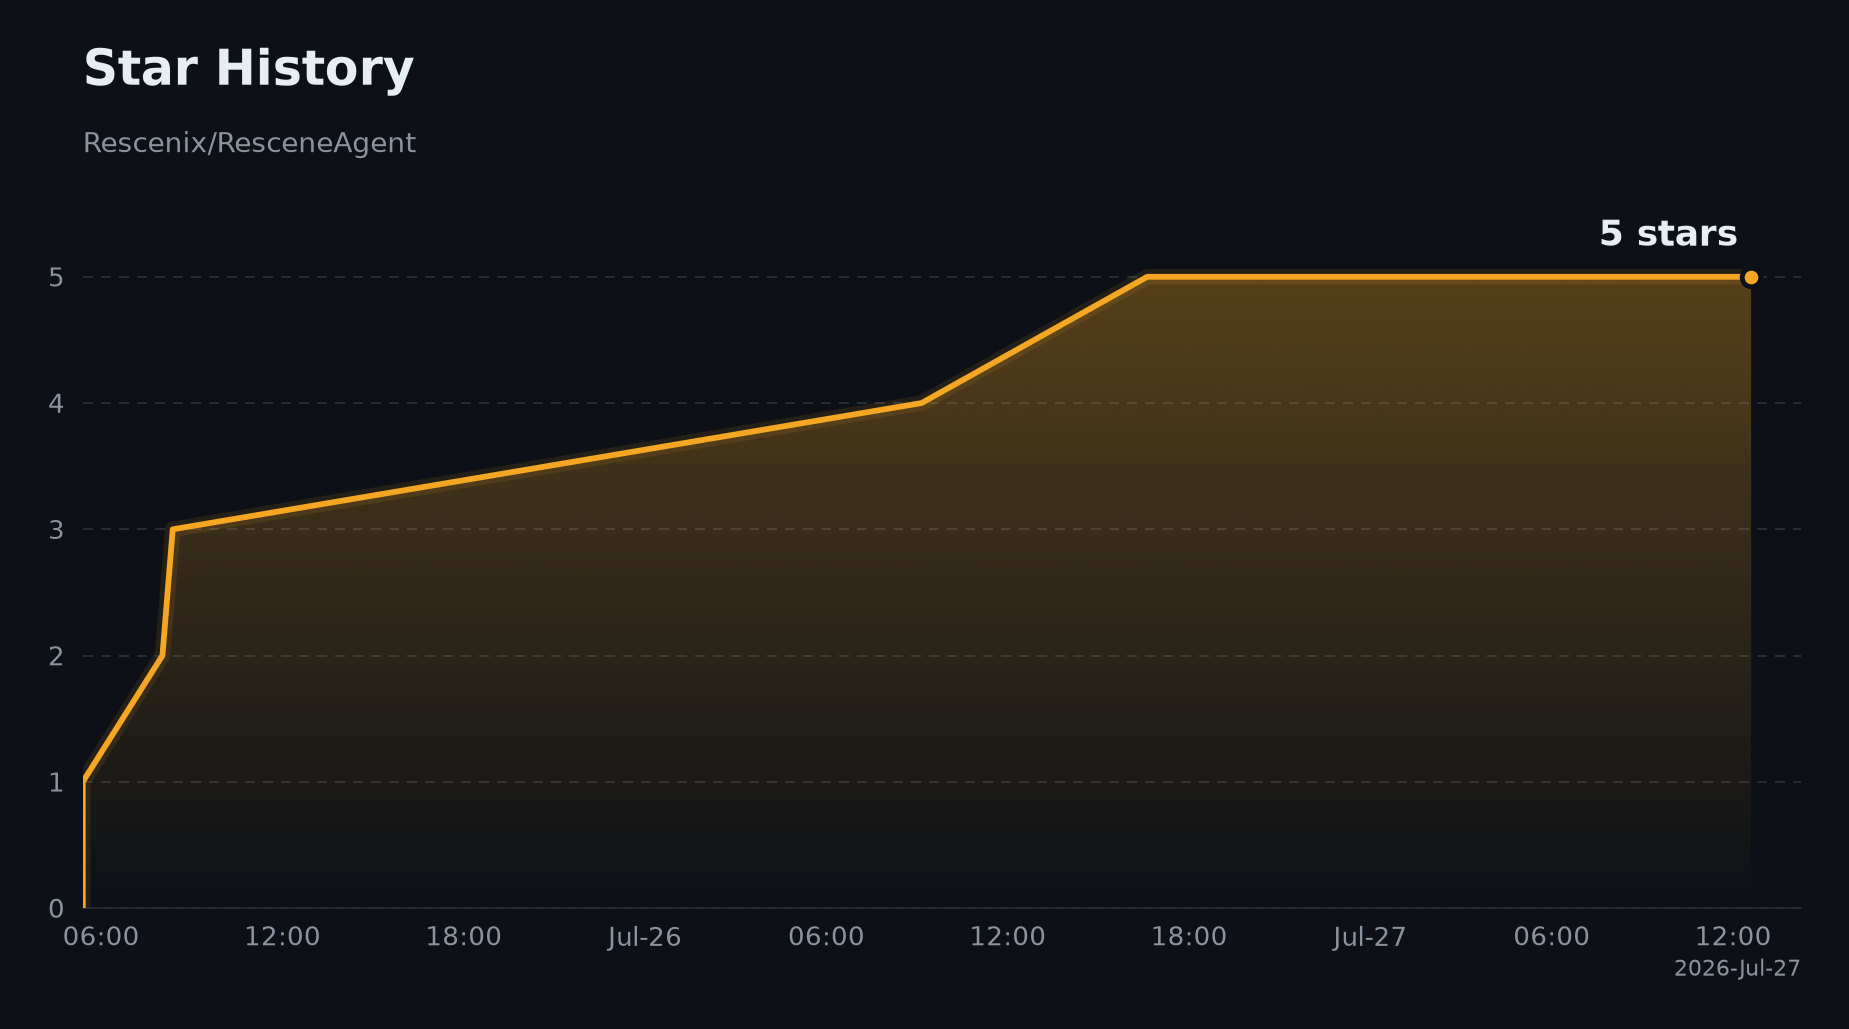
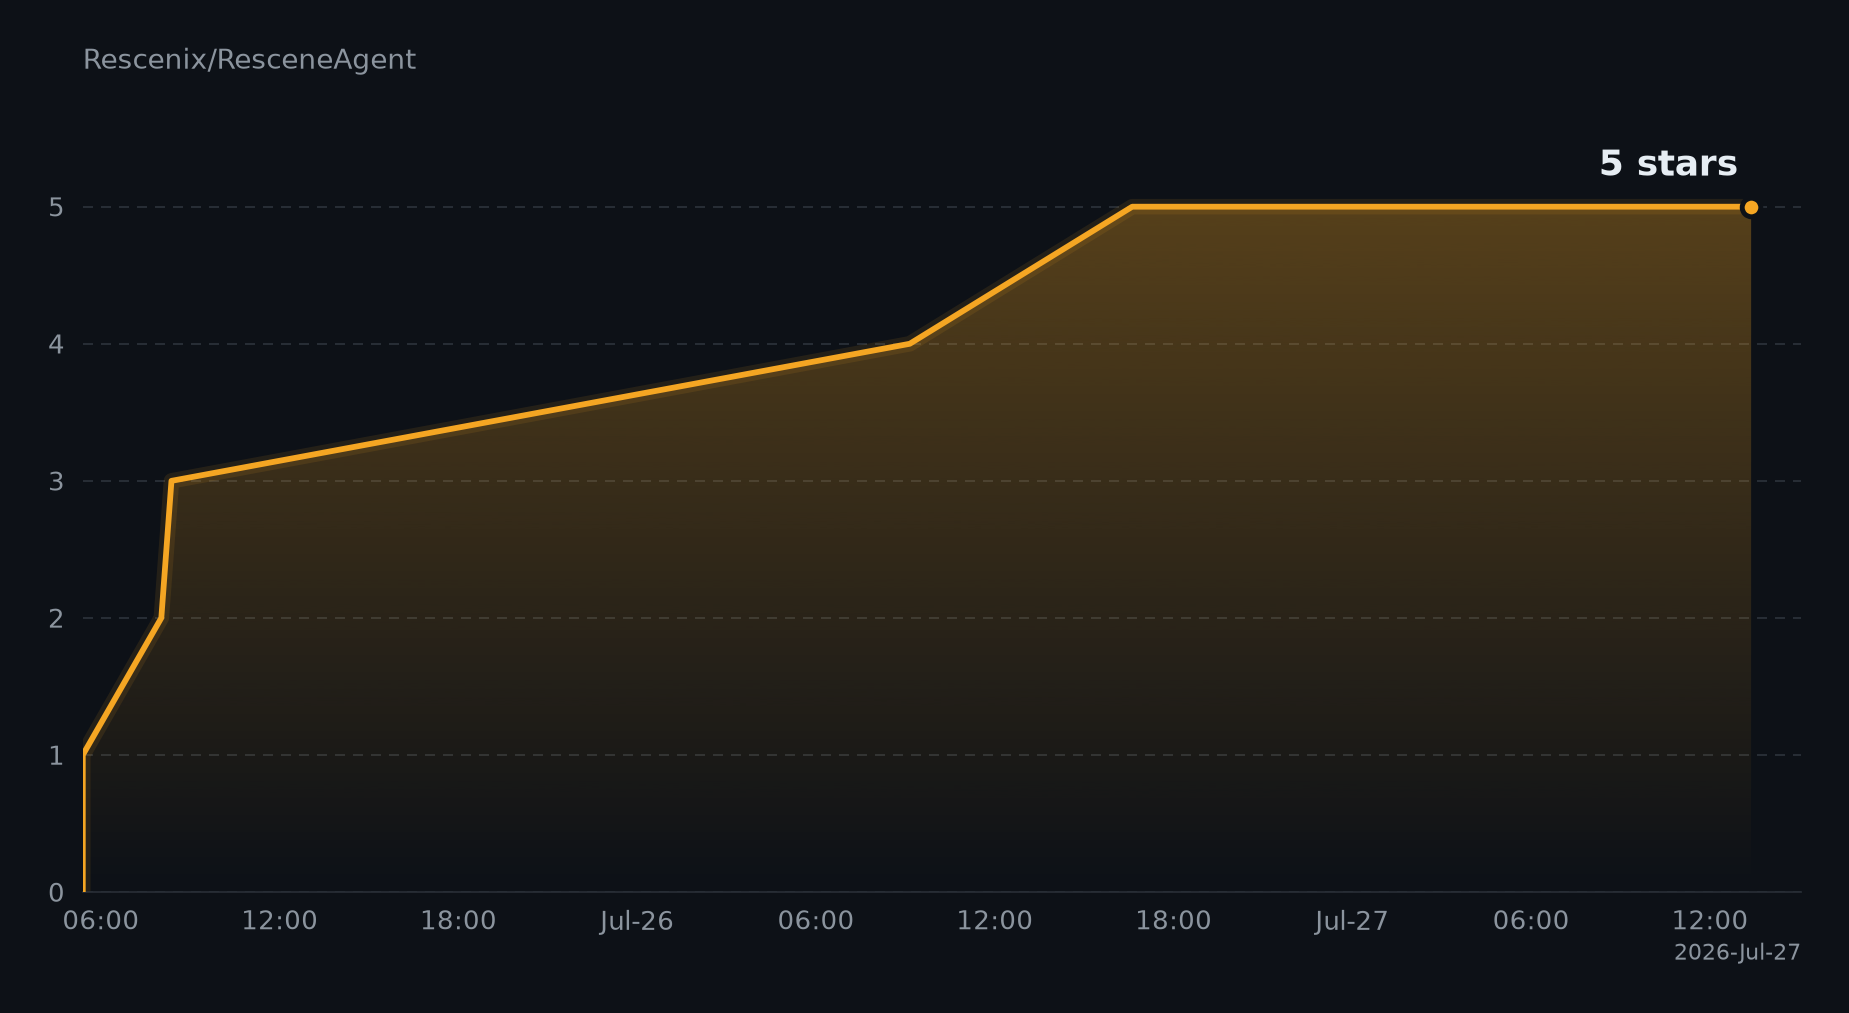
style: simplify star history chart header
Former-commit-id: fa7ddbe7c2d14ba2ccbd9c0af2c2d6c5cc3047dd

diff --git a/scripts/gen_star_history.py b/scripts/gen_star_history.py
@@ -110,7 +110,7 @@ def render(x: np.ndarray, y: np.ndarray, repo: str, theme: dict[str, str], outpu
     fig, axis = plt.subplots(figsize=(12, 6.2), dpi=160)
     fig.patch.set_facecolor(theme["bg"])
     axis.set_facecolor(theme["bg"])
-    fig.subplots_adjust(left=0.075, right=0.97, top=0.80, bottom=0.10)
+    fig.subplots_adjust(left=0.075, right=0.97, top=0.86, bottom=0.10)
     span = max(1, x[-1] - x[0])
     axis.set_xlim(x[0], x[-1] + span * 0.03)
     axis.set_ylim(0, max(1, y[-1]) * 1.10)
@@ -128,8 +128,9 @@ def render(x: np.ndarray, y: np.ndarray, repo: str, theme: dict[str, str], outpu
     axis.scatter([x[-1]], [y[-1]], s=70, color=ACCENT, edgecolor=theme["bg"], linewidth=2.2, zorder=4)
     axis.annotate(f"{int(y[-1]):,} stars", (x[-1], y[-1]), xytext=(-6, 14), textcoords="offset points",
                   ha="right", fontsize=16, fontweight="bold", color=theme["text"])
-    fig.text(0.075, 0.93, "Star History", fontsize=22, fontweight="bold", color=theme["text"])
-    fig.text(0.075, 0.862, repo, fontsize=12.5, color=theme["subtext"])
+    # README already has the “Star History” heading; keep the generated image
+    # focused on the repository and chart instead of repeating that title.
+    fig.text(0.075, 0.93, repo, fontsize=12.5, color=theme["subtext"])
     axis.yaxis.grid(True, color=theme["grid"], linewidth=0.9, linestyle=(0, (5, 4)))
     axis.set_axisbelow(True)
     for side in ("top", "right", "left"):
